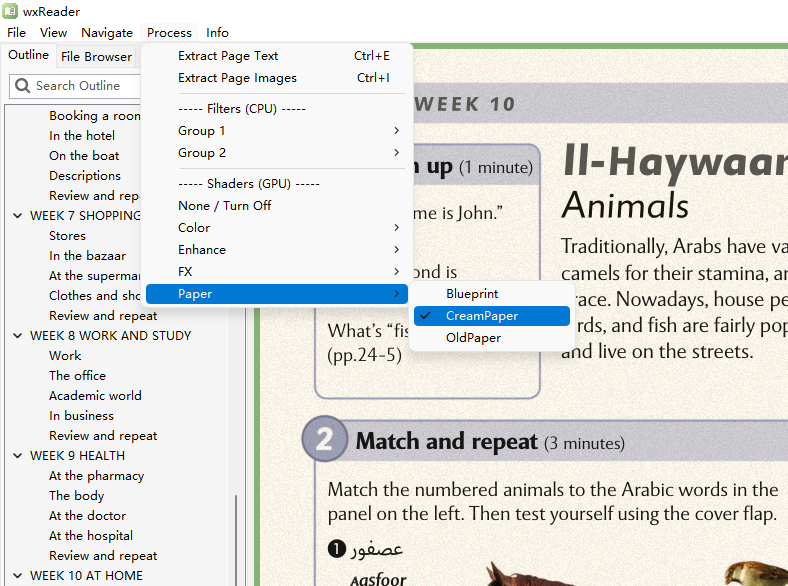
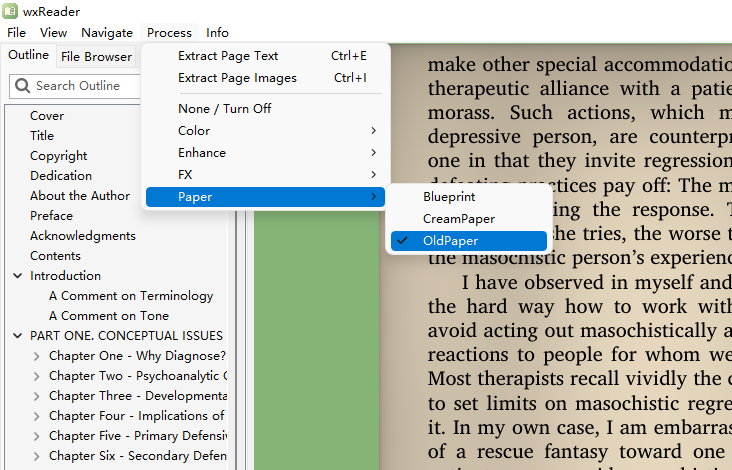
thumbnail bug fix
pass w and h also

diff --git a/src/wxReaderProvider.py b/src/wxReaderProvider.py
@@ -2,10 +2,9 @@ import abc
 import os
 
 import fitz  # PyMuPDF
+import pyvips
 import pyzipper
 import wx
-
-import pyvips
 
 
 class ContentProvider(abc.ABC):
@@ -165,7 +164,7 @@ class PdfContentProvider(ContentProvider):
                     })
         return found_images
 
-    def get_thumbnail(self, thumb_width: int, thumb_height: int) -> bytes | None:
+    def get_thumbnail(self, thumb_width: int, thumb_height: int) -> tuple[int, int, bytes] | None:
         if not self.is_valid or self.page_count == 0:
             return None
 
@@ -175,10 +174,11 @@ class PdfContentProvider(ContentProvider):
             scale = min(thumb_width / rect.width, thumb_height / rect.height)
             mat = fitz.Matrix(scale, scale)
 
-            pix = page.get_pixmap(matrix=mat, alpha=False)
+            pix = page.get_pixmap(matrix=mat, colorspace=fitz.csRGB, alpha=False)
 
             if pix.n == 3:  # RGB
-                return bytes(pix.samples)
+                return pix.width, pix.height, bytes(pix.samples)
+
         except Exception as e:
             print(f"[ERROR] wxReader failed to get thumbnail for {self.path}: {e}")
 
@@ -367,7 +367,7 @@ class ArchiveContentProvider(ContentProvider):
             print(f"pyvips conversion to wx.Bitmap error: {e}")
             return wx.Bitmap(1, 1)
 
-    def get_thumbnail(self, thumb_width: int, thumb_height: int) -> bytes | None:
+    def get_thumbnail(self, thumb_width: int, thumb_height: int) -> tuple[int, int, bytes] | None:
         if not self.is_valid or self.page_count == 0:
             return None
 
@@ -381,7 +381,7 @@ class ArchiveContentProvider(ContentProvider):
 
             thumb = vips_img.thumbnail_image(thumb_width, height=thumb_height, crop='centre')
 
-            return thumb.write_to_memory()
+            return thumb.width, thumb.height, thumb.write_to_memory()
 
         except Exception as e:
             print(f"[ERROR] pyvips failed to get thumbnail for {self.path}: {e}")

diff --git a/src/wxReaderLibrary.py b/src/wxReaderLibrary.py
@@ -26,12 +26,13 @@ def process_cover_with_provider(file_path, thumb_width, thumb_height):
         elif ext in {".zip", ".cbz"}:
             provider = ArchiveContentProvider(file_path)
         else:
-            return file_path, 0, 0, None  # Unsupported
+            return file_path, 0, 0, None
 
-        raw_bytes = provider.get_thumbnail(thumb_width, thumb_height)
+        thumb_data = provider.get_thumbnail(thumb_width, thumb_height)
 
-        if raw_bytes:
-            img = wx.Image(thumb_width, thumb_height, raw_bytes)
+        if thumb_data:
+            w, h, raw_bytes = thumb_data
+            img = wx.Image(w, h, raw_bytes)
             if img.IsOk():
                 return file_path, img.GetWidth(), img.GetHeight(), raw_bytes
 
@@ -42,6 +43,7 @@ def process_cover_with_provider(file_path, thumb_width, thumb_height):
             provider.close()
 
     return file_path, 0, 0, None
+
 
 
 class ThumbnailPanel(wx.Panel):
